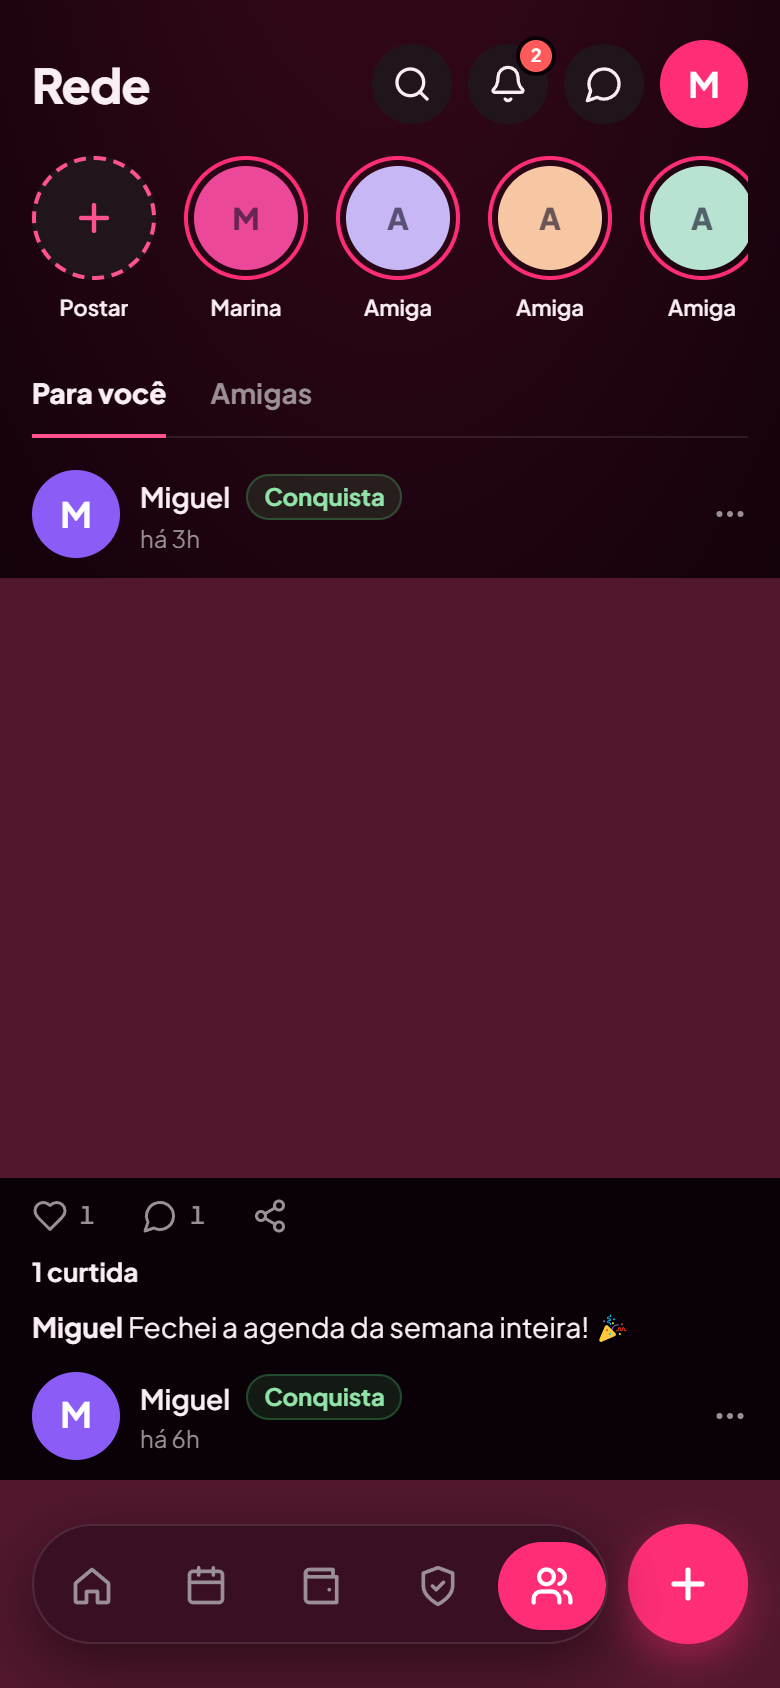
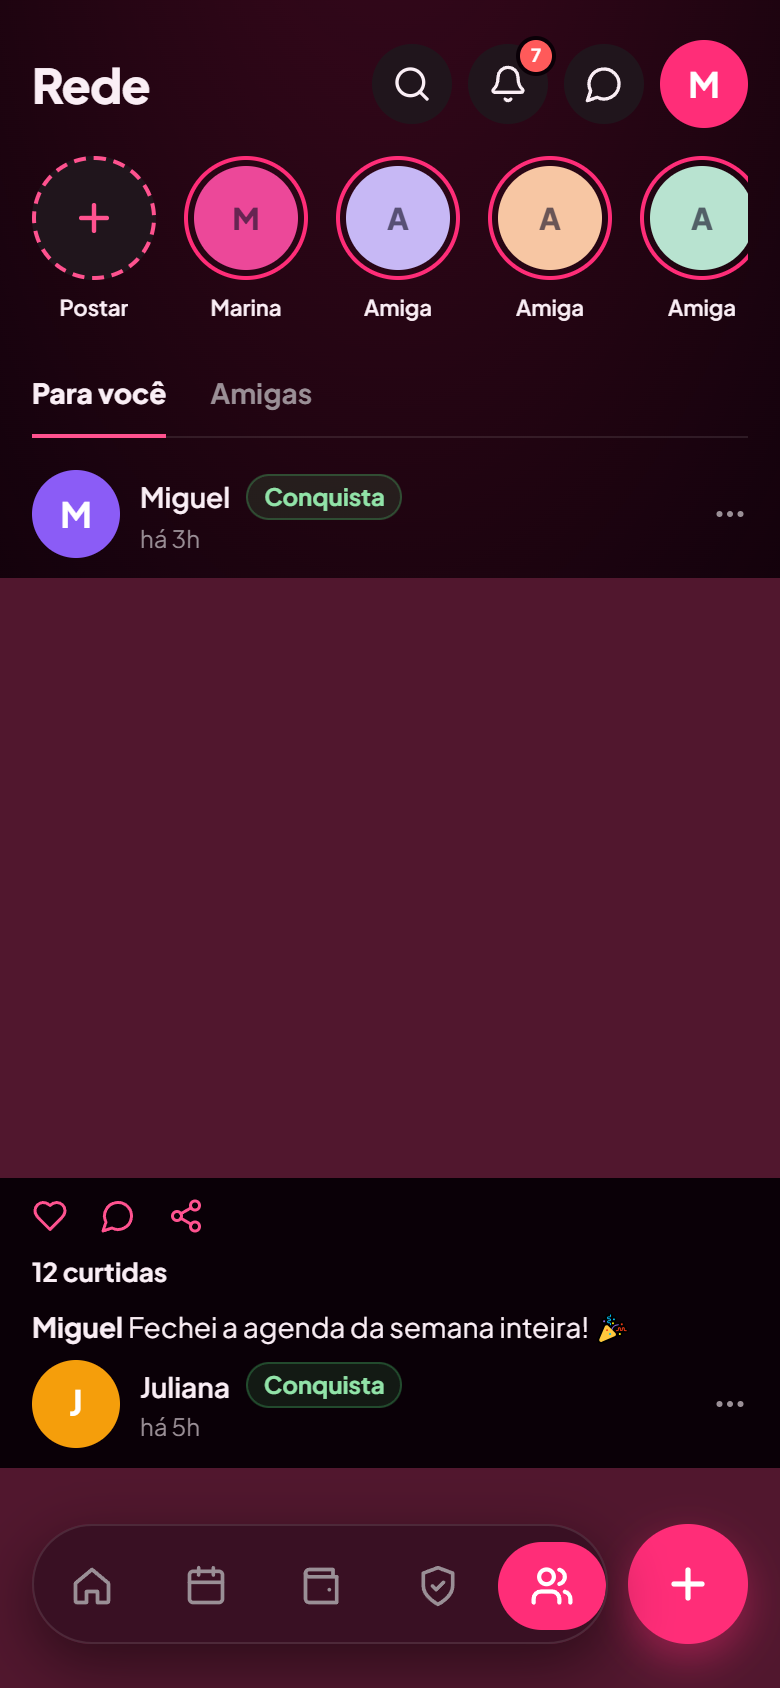
feat(pixel): espaçamento dos posts, barra de ações e dados do feed
Os artigos passaram a ser separados por 6px, sem respiro antes do primeiro: o
mt-3 mais o space-y-3 do cartão antigo somavam 24px e empurravam o post
inteiro para baixo.

A barra de ações perdeu os contadores ao lado dos ícones. A referência mostra
só os três ícones e imprime a contagem embaixo, na linha "12 curtidas"; ter os
dois era contar duas vezes. O alvo de toque de 44px continua, agora por
padding com margem negativa em cima do ícone de 24.

O feed do laboratório ganhou os dados da referência: o segundo artigo é da
Juliana, há 5h, com o avatar laranja que ela desenha, e as curtidas passaram a
ser 12 no primeiro post e 8 no segundo.

Medido: a Rede saiu de 7,71% para 7,39% no claro e de 11,65% para 10,80% no
escuro.

Changed region(s): [[0.0, 0.8009, 1.0, 0.8934], [0.0308, 0.7085, 0.2769, 0.7701], [0.3385, 0.7085, 0.3692, 0.7393]]

diff --git a/lib/mockAppData.ts b/lib/mockAppData.ts
@@ -450,6 +450,16 @@ export function buildMockAppSeed(opts?: {
     },
     // As 4 da fileira da referência (tela Rede): mesmo nome, mesma inicial
     // e a mesma cor de avatar que ela desenha.
+    {
+      user_id: "mock-amiga-juliana",
+      nome_exibicao: "Juliana",
+      cor_avatar: "#f59e0b",
+      bio: "",
+      avatar_url: null,
+      area_atuacao: "",
+      criado_em: daysFromNow(-26),
+      atualizado_em: daysFromNow(-3),
+    },
     ...AMIGAS_DA_REFERENCIA.map((a, i) => ({
       user_id: a.id,
       nome_exibicao: a.nome,
@@ -479,12 +489,13 @@ export function buildMockAppSeed(opts?: {
       texto: "Fechei a agenda da semana inteira! 🎉",
       h: 3,
     },
+    // 2º artigo da referência: Juliana, há 5h.
     {
       id: "rede-post-4",
-      autor: uid,
+      autor: "mock-amiga-juliana",
       categoria: "conquista",
       texto: "Antes e depois da cliente de hoje 💅 deslizem pro lado",
-      h: 6,
+      h: 5,
     },
     {
       id: "rede-post-5",
@@ -644,9 +655,23 @@ export function buildMockAppSeed(opts?: {
     foto("rede-post-4", uid, 2, "1300x1000", 6),
   ];
   const rede_post_fotos = fotosDef.map((f) => f.row);
+  // 12 curtidas no 1º post e 8 no 2º: é o que a referência imprime.
+  const curtidoras = [
+    FRIEND_ID,
+    "mock-amiga-juliana",
+    ...AMIGAS_DA_REFERENCIA.map((a) => a.id),
+  ];
+  const curtidasDe = (postId: string, quantas: number) =>
+    Array.from({ length: quantas }, (_, i) => ({
+      post_id: postId,
+      user_id:
+        i < curtidoras.length ? curtidoras[i] : `mock-curtidora-${postId}-${i}`,
+      criado_em: hoursAgoIso(2 + i),
+    }));
   const rede_curtidas = [
     { post_id: "rede-post-2", user_id: uid, criado_em: hoursAgoIso(20) },
-    { post_id: "rede-post-1", user_id: FRIEND_ID, criado_em: hoursAgoIso(2) },
+    ...curtidasDe("rede-post-1", 12),
+    ...curtidasDe("rede-post-4", 8),
   ];
   const rede_comentarios = [
     {
@@ -753,6 +778,16 @@ export function buildMockAppSeed(opts?: {
           status: "aceita",
           criado_em: daysFromNow(-10),
           respondido_em: daysFromNow(-9),
+        },
+        {
+          user_id: "mock-amiga-juliana",
+          nome_exibicao: "Juliana",
+          cor_avatar: "#f59e0b",
+          bio: "",
+          avatar_url: null,
+          area_atuacao: "",
+          criado_em: daysFromNow(-26),
+          atualizado_em: daysFromNow(-3),
         },
         ...AMIGAS_DA_REFERENCIA.map((a, i) => ({
           id: `mock-amizade-${a.id}`,

diff --git a/components/rede/PostCard.tsx b/components/rede/PostCard.tsx
@@ -38,19 +38,18 @@ function ActionButton({
     <button
       onClick={onClick}
       aria-label={label}
-      className="flex items-center gap-1.5 pr-2 transition-opacity active:opacity-60"
+      className="flex items-center transition-opacity active:opacity-60"
       style={{
-        paddingTop: 13,
-        paddingBottom: 13,
-        marginTop: -13,
-        marginBottom: -13,
-        color: active ? activeColor : "var(--text-muted)",
+        // Alvo de toque de 44 com o ícone de 24 da referência: o padding
+        // cresce e a margem negativa devolve a altura desenhada.
+        paddingTop: 10,
+        paddingBottom: 10,
+        marginTop: -10,
+        marginBottom: -10,
+        color: active ? activeColor : "var(--accent-deep)",
       }}
     >
       {icon}
-      {count !== undefined && (
-        <span className="text-xs font-semibold tabular-nums">{count}</span>
-      )}
     </button>
   );
 }
@@ -146,7 +145,6 @@ export function PostCard({
                 fill={post.curtidoPorMim ? "var(--danger)" : "none"}
               />
             }
-            count={post.curtidas}
             active={post.curtidoPorMim}
             activeColor="var(--danger)"
             onClick={() => onToggleLike(post.id)}
@@ -154,7 +152,6 @@ export function PostCard({
           />
           <ActionButton
             icon={<MessageCircle size={18} />}
-            count={post.comentariosCount}
             onClick={() => onComment(post)}
             label="Comentar"
           />

diff --git a/components/rede/FeedScreen.tsx b/components/rede/FeedScreen.tsx
@@ -372,7 +372,10 @@ export function FeedScreen({
           fiado a `AmigasScreen` em RedeTab.tsx — nenhuma lógica nova, só
           garante o caminho permanente que os blocos contextuais abaixo não
           garantem sozinhos. */}
-        <div className="space-y-3 mt-3">
+        {/* A referência separa os artigos por 6px e não dá respiro antes do
+            primeiro: o `mt-3` e o `space-y-3` do cartão antigo somavam 24px
+            e empurravam o post inteiro. */}
+        <div className="flex flex-col" style={{ gap: "6px" }}>
           {/* Skeleton só em cache miss de verdade -- com posts cacheados em
             tela, um refresh em 2º plano (`loading` ainda true) NÃO volta pro
             skeleton, e uma falha de rede NÃO cobre o conteúdo com o erro
